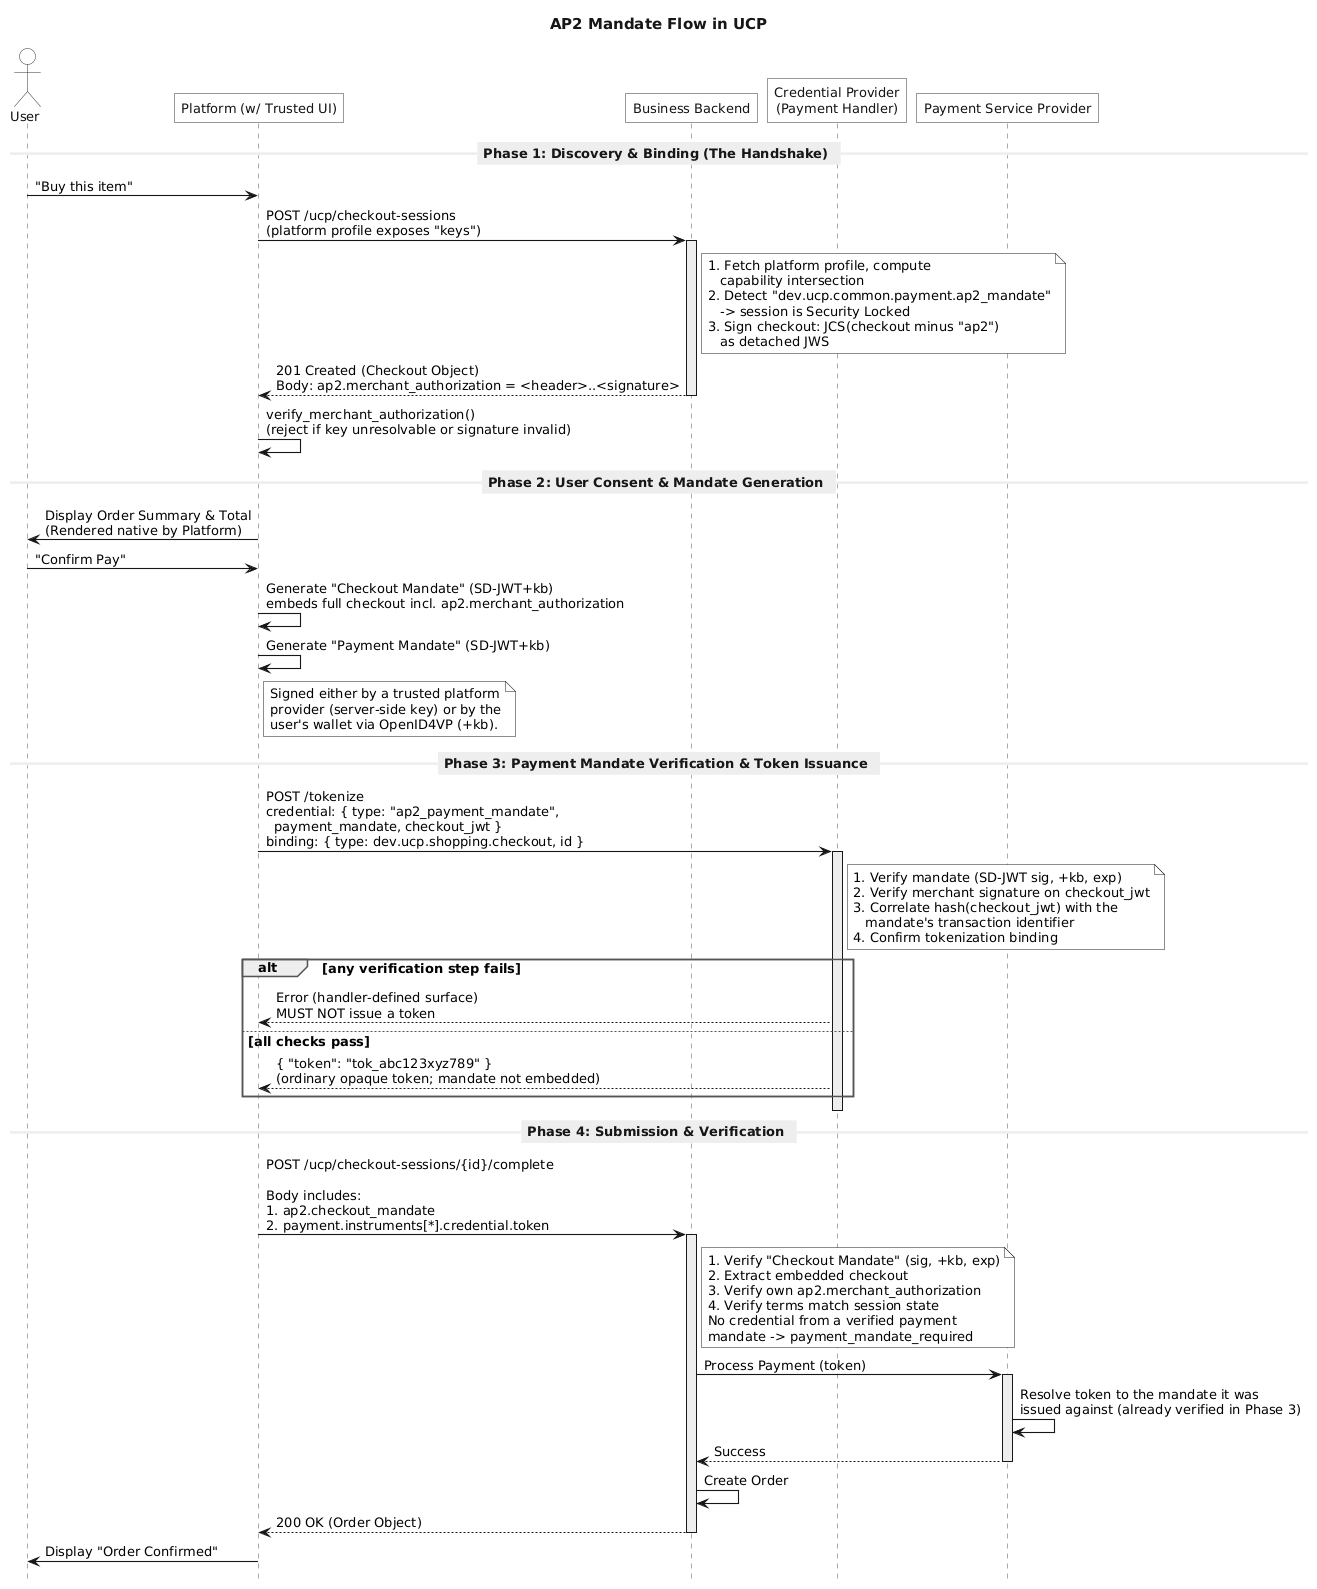
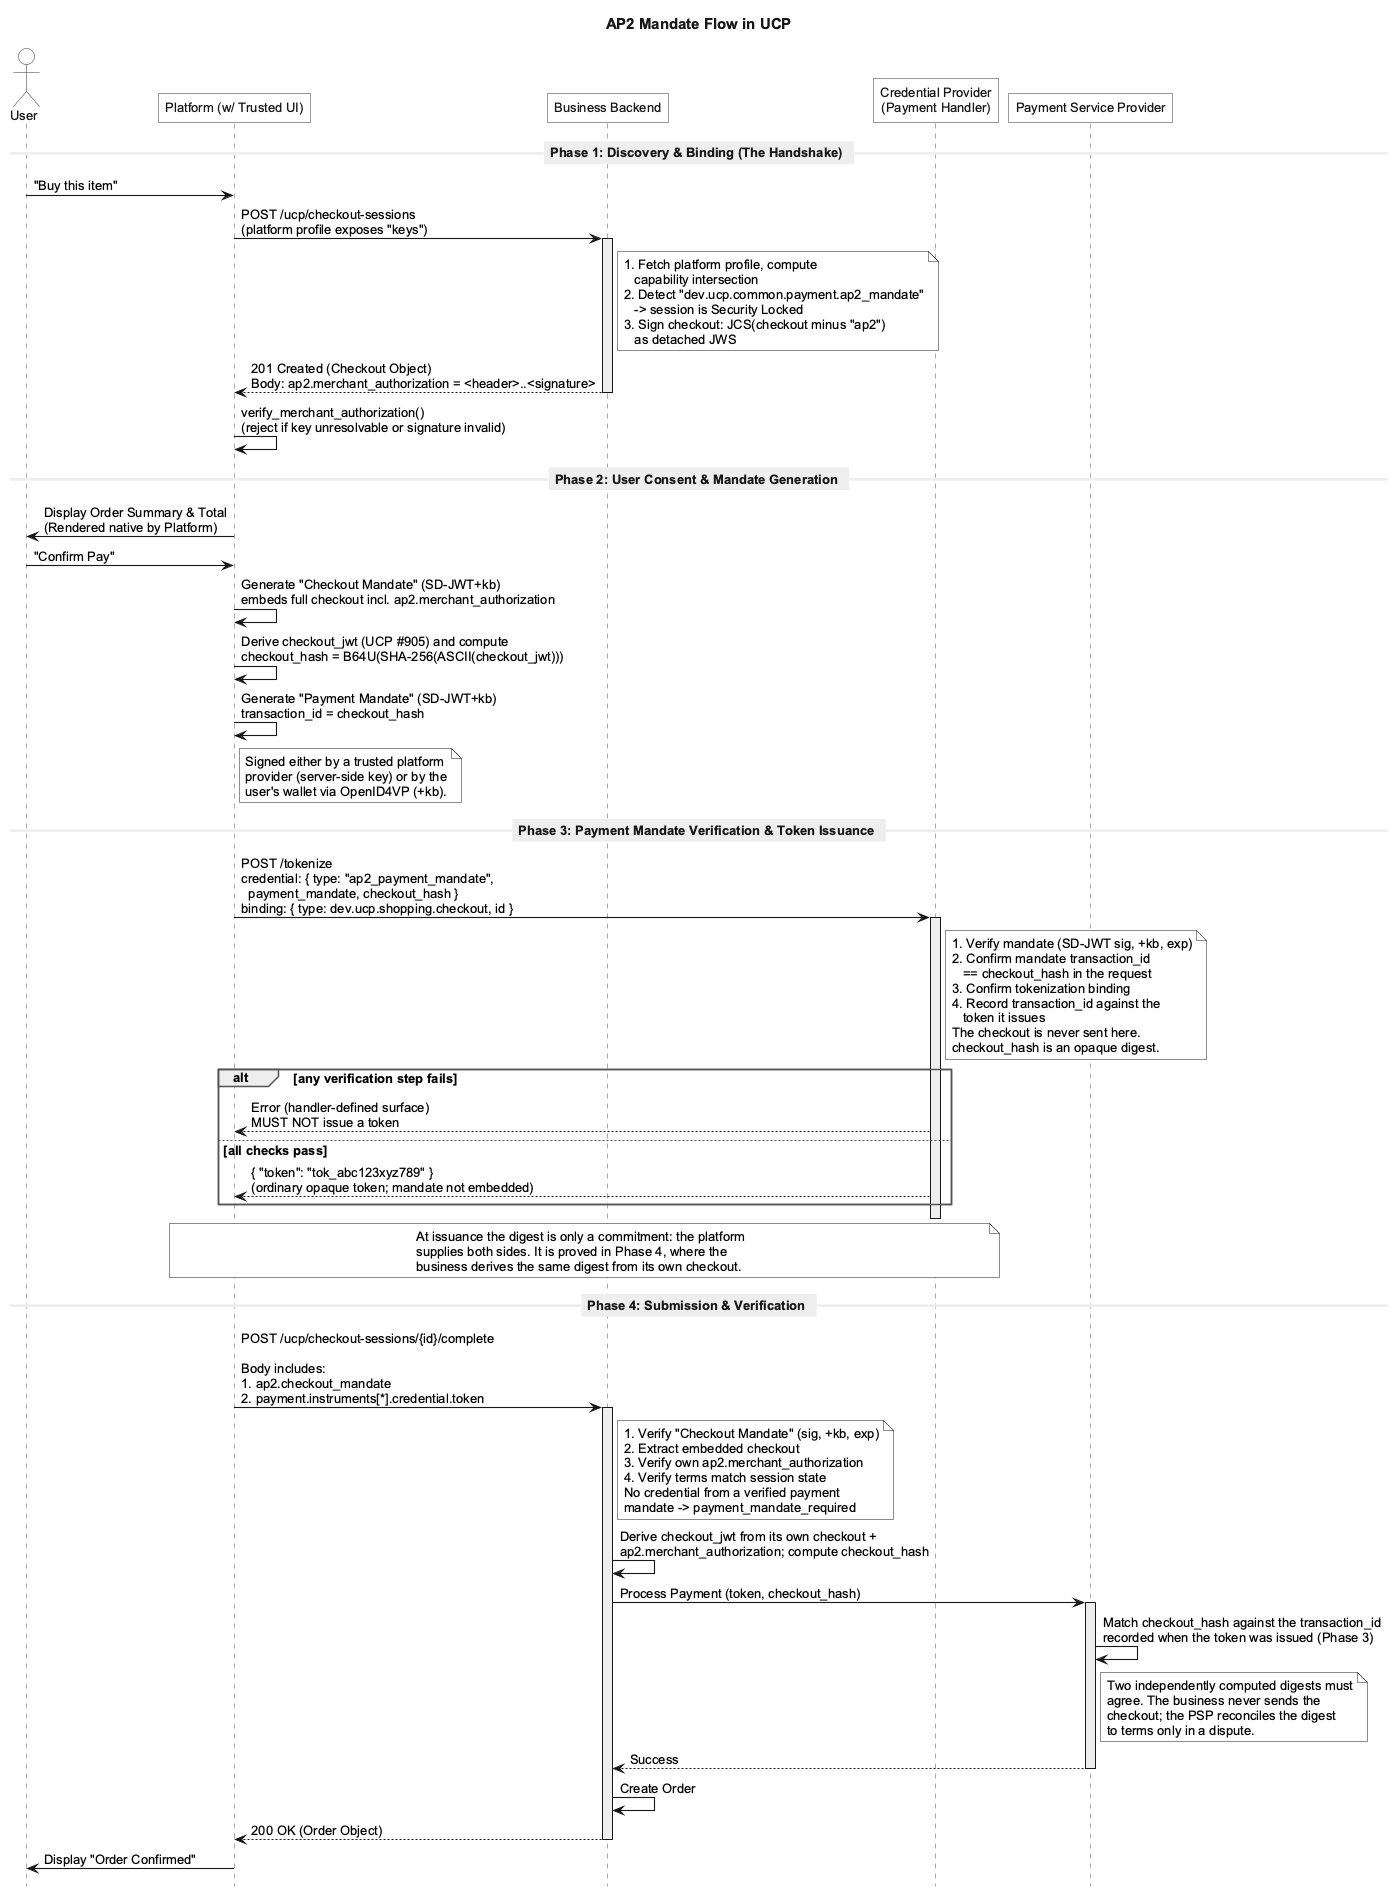
Adjust to issue#905
https://github.com/Universal-Commerce-Protocol/ucp/issues/905

diff --git a/docs/specification/payment/extensions/ap2-mandates.md b/docs/specification/payment/extensions/ap2-mandates.md
@@ -376,9 +376,14 @@ The payment mandate is not submitted to the business. It is presented to the
 instrument the user selected — which verifies it and issues a payment token in
 exchange. The business receives that token in Step 4.
 
-Verification happens here, before a token exists, because a token issued
-against an invalid mandate is indistinguishable from a valid one by the time it
-reaches the business.
+Mandate validity is established here, before a token exists, because a token
+issued against an invalid mandate is indistinguishable from a valid one by the
+time it reaches the business.
+
+The checkout itself is not presented here, and neither is the Checkout JWT. The
+Credential Provider receives a **transaction digest** — the value the mandate is
+bound to — and nothing in its verification consumes the checkout terms. See
+**Correlation across the two steps** below for where the binding is proved.
 
 **Presentation.** The platform presents the payment mandate to the instrument's
 payment handler as a **source credential**, using the handler's existing
@@ -395,7 +400,7 @@ Content-Type: application/json
   "credential": {
     "type": "ap2_payment_mandate",
     "payment_mandate": "eyJhbGciOiJFUzI1NiIsInR5cCI6InZjK3NkLWp3dCJ9...~...",
-    "checkout_jwt": "eyJhbGciOiJFUzI1NiIsImtpZCI6Im1lcmNoYW50XzIwMjUifQ.<payload>.<signature>"
+    "checkout_hash": "0k_3Jq8tXh2mB7vN1pLZcQd5rYwS6eU4aG9fHiKjOxM"
   },
   "binding": {
     "type": "dev.ucp.shopping.checkout",
@@ -407,28 +412,48 @@ Content-Type: application/json
 }
 ```
 
-The `checkout_jwt` is the Checkout JWT for the checkout the mandate authorizes.
-It is what makes the correlation check below possible: a Credential Provider
-holds neither the checkout response nor `ap2.merchant_authorization`, and cannot
-reconstruct the value the mandate was bound to from the token request alone.
+The `checkout_hash` is the transaction digest for the checkout the mandate
+authorizes: the hash of the Checkout JWT, computed as the AP2 Protocol
+Specification defines. It is an opaque value to the Credential Provider — it
+identifies a transaction without disclosing its terms, and is reconciled to a
+checkout only in a dispute, by a party that already holds that checkout.
 
 **Verification.** Before issuing a token, the Credential Provider **MUST**:
 
 1. **Verify the mandate** — decode and verify the SD-JWT signature, key
     binding, and expiration per the
     [AP2 Protocol Specification](https://ap2-protocol.org/specification).
-2. **Verify the merchant signature** — verify `checkout_jwt` as a Compact JWS
-    against the business's published key, resolved from the `kid` in its
-    protected header.
-3. **Correlate the mandate to the checkout** — recompute the checkout hash from
-    `checkout_jwt` and confirm it equals the mandate's transaction identifier.
-    A mandate that does not correlate authorizes a different purchase.
-4. **Confirm the binding** — the binding rules of
+2. **Match the digest** — confirm that the mandate's transaction identifier
+    equals the `checkout_hash` in the request. A mandate that does not match
+    authorizes a different purchase.
+3. **Confirm the binding** — the binding rules of
     [Tokenization](../tokenization.md) apply unchanged, tying the resulting
     token to this checkout.
 
 A Credential Provider **MUST NOT** issue a token when any of these fail, and
-**MUST NOT** issue a token for a mandate it has not verified.
+**MUST NOT** issue a token for a mandate it has not verified. On success it
+**MUST** record the matched digest against the token it issues, so the
+comparison in [PSP Verification](#psp-verification) has something to compare
+against.
+
+The digest is carried in the request rather than read out of the mandate so a
+handler does not have to parse AP2 claim structure to know what it bound. A
+handler that reads the claim instead arrives at the same value; requiring the
+member keeps both at the same place.
+
+**Correlation across the two steps.** At issuance the digest match is a
+*commitment*, not a proof: the platform supplies both the mandate and the
+digest, so a platform acting in bad faith can make them agree. The proof is at
+processing, where the business derives the digest independently from the
+checkout it signed and the Credential Provider or PSP compares the two
+(see [PSP Verification](#psp-verification)). Two independently computed values
+must agree, and the party this binding exists to constrain controls only one of
+them.
+
+This split is deliberate. Mandate validity — expiration, key binding, signature
+— is caught at issuance, before a token exists. Correlation is caught at
+processing, the first point at which a second, independent computation of the
+digest exists. Both occur before the business creates the order.
 
 **Issuance.** On success the handler returns a token in its normal form. The
 token is an ordinary payment token: opaque to the platform and the business,
@@ -538,17 +563,31 @@ Upon receiving the `complete` request, the business **MUST**:
 
 ### PSP Verification
 
-Payment mandate verification happens at issuance
+Payment mandate *validity* is established at issuance
 ([Step 3](#step-3-payment-mandate-verification-and-token-issuance)), not at
 processing. By the time the business passes the `token` to their Payment
 Handler / PSP, the mandate behind it has already been verified against the
 [AP2 Protocol Specification](https://ap2-protocol.org/specification) —
-signature, key binding, expiration, and correlation with the checkout.
+signature, key binding, and expiration.
 
-At processing time the PSP resolves the token to the mandate it was issued
-against and processes the payment on that authorization. A token that cannot
-be resolved to a verified mandate **MUST NOT** be processed under this
-extension.
+What remains at processing is the *correlation*. The business derives the
+Checkout JWT from its own checkout and `ap2.merchant_authorization`, computes
+the transaction digest from it, and presents that digest alongside the token.
+The Payment Handler / PSP **MUST** confirm it equals the digest recorded when
+the token was issued, and **MUST NOT** process a token whose digest does not
+match or that cannot be resolved to a verified mandate.
+
+This is the point at which the binding holds. The business's digest and the
+platform's are computed independently from the same rule, so a platform that
+presented a mandate for a different purchase produces a value the business's
+checkout cannot reproduce.
+
+Neither the checkout nor the Checkout JWT is sent on this path. The digest is
+opaque to the Payment Handler and the PSP; reconciling it to checkout terms is
+a dispute-time operation, performed by a party that already holds the checkout.
+How the digest accompanies the token is handler-defined, as handler error
+surfaces already are: this specification states what must be compared, not the
+wire format of a call it does not define.
 
 ## Schema
 
@@ -580,11 +619,11 @@ The source credential a platform presents to a payment handler in
 `source/schemas/common/types/ap2_payment_mandate_credential.json`; it is a
 tokenization input, not a member of any UCP request or response.
 
-| Field             | Type   | Required | Description                                                                 |
-| :---------------- | :----- | :------- | :-------------------------------------------------------------------------- |
-| `type`            | string | Yes      | Constant `ap2_payment_mandate`                                              |
-| `payment_mandate` | string | Yes      | The SD-JWT+kb payment mandate                                               |
-| `checkout_jwt`    | string | Yes      | The Checkout JWT for the checkout the mandate authorizes, used to correlate |
+| Field             | Type   | Required | Description                                                              |
+| :---------------- | :----- | :------- | :----------------------------------------------------------------------- |
+| `type`            | string | Yes      | Constant `ap2_payment_mandate`                                           |
+| `payment_mandate` | string | Yes      | The SD-JWT+kb payment mandate                                            |
+| `checkout_hash`   | string | Yes      | Transaction digest the mandate is bound to, opaque to the handler        |
 
 ### AP2 Complete Request
 
